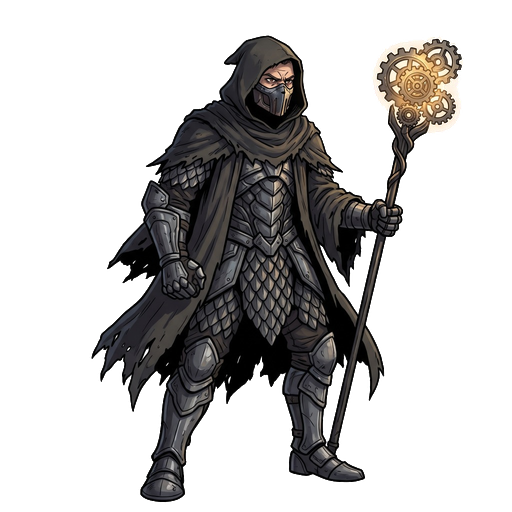
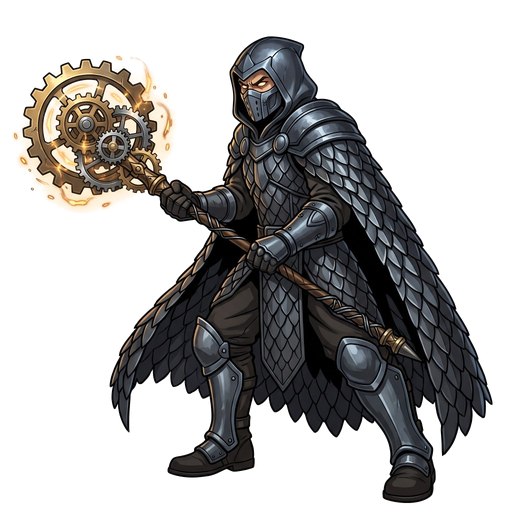
feat(sprites): update metal wizard idle and wire metal wizard & temple master hit poses

diff --git a/VSCode/test/robot_mage_assets_and_arena_test.dart b/VSCode/test/robot_mage_assets_and_arena_test.dart
@@ -112,6 +112,9 @@ void main() {
       expect(pubspecText.contains('assets/images/player/'), isTrue);
       expect(pubspecText.contains('assets/images/forge_arena_bg.webp'), isTrue);
       expect(pubspecText.contains('assets/images/story/'), isTrue);
+      expect(pubspecText.contains('assets/images/enemies/metal_wizard_idle.png'), isTrue);
+      expect(pubspecText.contains('assets/images/enemies/metal_wizard_hit.png'), isTrue);
+      expect(pubspecText.contains('assets/images/enemies/temple_master_hit.png'), isTrue);
 
       const expectedSprites = [
         'assets/images/player/cleric_idle.png',
@@ -121,7 +124,9 @@ void main() {
         'assets/images/enemies/robot_archmage_idle.png',
         'assets/images/enemies/robot_archmage_hit.png',
         'assets/images/enemies/metal_wizard_idle.png',
+        'assets/images/enemies/metal_wizard_hit.png',
         'assets/images/enemies/temple_master_idle.png',
+        'assets/images/enemies/temple_master_hit.png',
         'assets/images/enemies/baby_robot_mage_idle.png',
         'assets/images/enemies/baby_robot_mage_hit.png',
       ];
@@ -377,7 +382,7 @@ void main() {
       expect(archmageIdleFinder, findsOneWidget);
       expect(tester.takeException(), isNull);
 
-      // Stage 3: Metal Wizard
+      // Stage 3: Metal Wizard (idle on draw, swaps to metal_wizard_hit.png at 550ms impact on player win, then reverts)
       await tester.pumpWidget(
         MaterialApp(
           theme: ThemeData.dark(),
@@ -399,13 +404,50 @@ void main() {
         ),
       );
       await tester.pump(const Duration(milliseconds: 100));
-      expect(
-        find.byKey(const ValueKey('assets/images/enemies/metal_wizard_idle.png')),
-        findsOneWidget,
+      final metalWizardIdleFinder = find.byKey(
+        const ValueKey('assets/images/enemies/metal_wizard_idle.png'),
       );
+      expect(metalWizardIdleFinder, findsOneWidget);
+      expect(tester.widget<Image>(metalWizardIdleFinder).gaplessPlayback, isTrue);
       expect(find.text('METAL WIZARD'), findsOneWidget);
 
       await tester.pump(const Duration(milliseconds: 700)); // finish round 3
+
+      // Stage 3 impact damage -> idle during launch/clash, swaps to metal_wizard_hit.png at 550ms impact
+      await tester.pumpWidget(
+        MaterialApp(
+          theme: ThemeData.dark(),
+          home: Scaffold(
+            body: SizedBox(
+              width: 400,
+              child: VersusArena(
+                userMove: HandMove.rock,
+                computerMove: HandMove.spock,
+                winner: RoundWinner.user,
+                localization: localization,
+                animationsEnabled: true,
+                roundId: 4,
+                elementalMode: true,
+                enemyStage: 3,
+              ),
+            ),
+          ),
+        ),
+      );
+      await tester.pump();
+      await tester.pump(const Duration(milliseconds: 200));
+      expect(metalWizardIdleFinder, findsOneWidget);
+
+      await tester.pump(const Duration(milliseconds: 360)); // 560ms total -> impact fired!
+      final metalWizardHitFinder = find.byKey(
+        const ValueKey('assets/images/enemies/metal_wizard_hit.png'),
+      );
+      expect(metalWizardHitFinder, findsOneWidget);
+      expect(tester.widget<Image>(metalWizardHitFinder).gaplessPlayback, isTrue);
+
+      await tester.pump(const Duration(milliseconds: 460)); // reverts to idle
+      expect(metalWizardIdleFinder, findsOneWidget);
+      expect(tester.takeException(), isNull);
 
       // Stage 4: Baby Mage Robot (idle during launch/clash, swaps to baby_robot_mage_hit.png at 550ms impact, then reverts)
       await tester.pumpWidget(
@@ -420,7 +462,7 @@ void main() {
                 winner: RoundWinner.user,
                 localization: localization,
                 animationsEnabled: true,
-                roundId: 4,
+                roundId: 5,
                 elementalMode: true,
                 enemyStage: 4,
               ),
@@ -446,6 +488,72 @@ void main() {
 
       await tester.pump(const Duration(milliseconds: 460)); // reverts to idle
       expect(babyIdleFinder, findsOneWidget);
+      expect(tester.takeException(), isNull);
+
+      // Stage 5: Temple High Master (idle during PC win / launch, swaps to temple_master_hit.png at 550ms impact, then reverts)
+      await tester.pumpWidget(
+        MaterialApp(
+          theme: ThemeData.dark(),
+          home: Scaffold(
+            body: SizedBox(
+              width: 400,
+              child: VersusArena(
+                userMove: HandMove.rock,
+                computerMove: HandMove.paper,
+                winner: RoundWinner.computer,
+                localization: localization,
+                animationsEnabled: true,
+                roundId: 6,
+                elementalMode: true,
+                enemyStage: 5,
+              ),
+            ),
+          ),
+        ),
+      );
+      await tester.pump(const Duration(milliseconds: 150));
+      final templeMasterIdleFinder = find.byKey(
+        const ValueKey('assets/images/enemies/temple_master_idle.png'),
+      );
+      expect(templeMasterIdleFinder, findsOneWidget);
+      expect(tester.widget<Image>(templeMasterIdleFinder).gaplessPlayback, isTrue);
+      expect(find.text('TEMPLE HIGH MASTER'), findsOneWidget);
+
+      await tester.pump(const Duration(milliseconds: 700)); // finish round 6
+
+      await tester.pumpWidget(
+        MaterialApp(
+          theme: ThemeData.dark(),
+          home: Scaffold(
+            body: SizedBox(
+              width: 400,
+              child: VersusArena(
+                userMove: HandMove.rock,
+                computerMove: HandMove.scissors,
+                winner: RoundWinner.user,
+                localization: localization,
+                animationsEnabled: true,
+                roundId: 7,
+                elementalMode: true,
+                enemyStage: 5,
+              ),
+            ),
+          ),
+        ),
+      );
+      await tester.pump();
+      await tester.pump(const Duration(milliseconds: 200));
+      expect(templeMasterIdleFinder, findsOneWidget);
+
+      await tester.pump(const Duration(milliseconds: 360)); // 560ms total -> impact fired!
+      final templeMasterHitFinder = find.byKey(
+        const ValueKey('assets/images/enemies/temple_master_hit.png'),
+      );
+      expect(templeMasterHitFinder, findsOneWidget);
+      expect(tester.widget<Image>(templeMasterHitFinder).gaplessPlayback, isTrue);
+
+      await tester.pump(const Duration(milliseconds: 460)); // reverts to idle
+      expect(templeMasterIdleFinder, findsOneWidget);
       expect(tester.takeException(), isNull);
     });
   });

diff --git a/VSCode/lib/views/widgets/versus_arena.dart b/VSCode/lib/views/widgets/versus_arena.dart
@@ -140,10 +140,12 @@ class _VersusArenaState extends State<VersusArena>
       case 3:
         return const [
           'assets/images/enemies/metal_wizard_idle.png',
+          'assets/images/enemies/metal_wizard_hit.png',
         ];
       case 5:
         return const [
           'assets/images/enemies/temple_master_idle.png',
+          'assets/images/enemies/temple_master_hit.png',
         ];
       default:
         return const [
@@ -1584,13 +1586,17 @@ class _BossArenaSprite extends StatelessWidget {
             ? 'assets/images/enemies/robot_archmage_hit.png'
             : 'assets/images/enemies/robot_archmage_idle.png';
       case 3:
-        return 'assets/images/enemies/metal_wizard_idle.png';
+        return actionType == _BossActionType.hit
+            ? 'assets/images/enemies/metal_wizard_hit.png'
+            : 'assets/images/enemies/metal_wizard_idle.png';
       case 4:
         return actionType == _BossActionType.hit
             ? 'assets/images/enemies/baby_robot_mage_hit.png'
             : 'assets/images/enemies/baby_robot_mage_idle.png';
       case 5:
-        return 'assets/images/enemies/temple_master_idle.png';
+        return actionType == _BossActionType.hit
+            ? 'assets/images/enemies/temple_master_hit.png'
+            : 'assets/images/enemies/temple_master_idle.png';
       default:
         switch (actionType) {
           case _BossActionType.attack:
